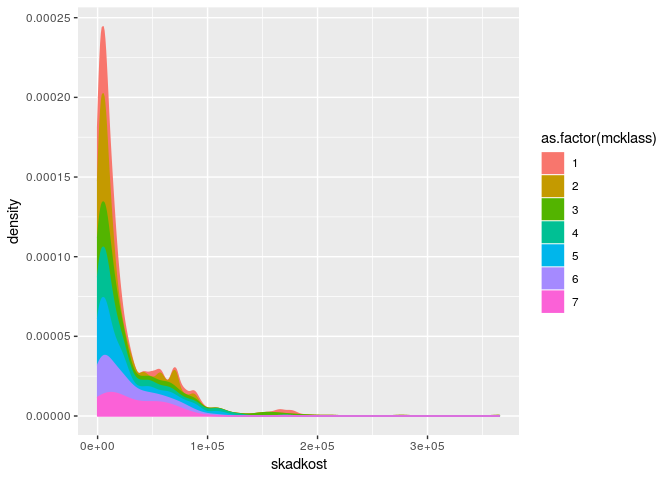
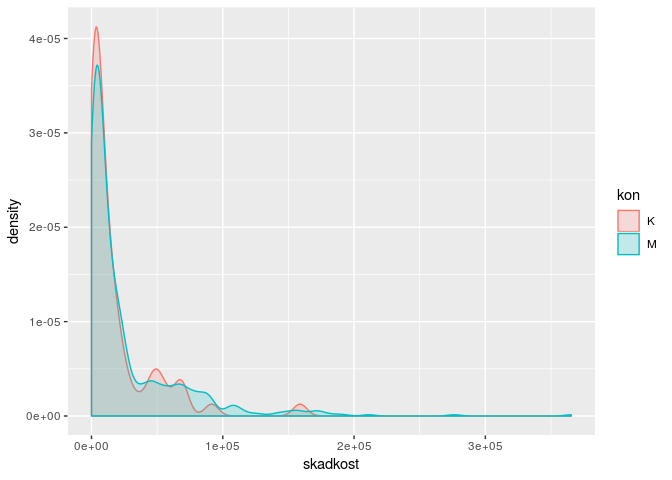
Added bibliograhy in bibtex format and new kernel desity plot

diff --git a/analysis.md b/analysis.md
@@ -9,6 +9,8 @@ library(insuranceData)
 data(dataOhlsson)
 ```
 
+## The data set
+
 The data comes from the former Swedish insurance company Wasa, and
 concerns partial casco insurance, for motorcycles. It contains
 aggregated data on all insurance policies and claims during
@@ -56,19 +58,48 @@ dataOhlsson <- dataOhlsson[dataOhlsson$skadkost>0, ]
 Subsetting the dataset to only include policies with positive claims,
 reduces the dataset from 64548 rows to only 670 rows.
 
+## Density estimates
+
+To estimate the density of the realized claims we use `ggplots` kernel
+density estimate. T uses the fnuction `density()` from the base packages
+`{stats}`. (Sheather and Jones 1991)
+
+``` r
+ggplot(dataOhlsson, aes(skadkost)) +
+  geom_density(alpha=0.2) + geom_rug(aes(x = skadkost, y = 0))
+```
+
+![](analysis_files/figure-gfm/unnamed-chunk-6-1.png)<!-- -->
+
 ``` r
 ggplot(dataOhlsson, aes(skadkost, color=kon, fill=kon)) +
   geom_density(alpha=0.2)
 ```
 
-![](analysis_files/figure-gfm/unnamed-chunk-6-1.png)<!-- --> Comparing
+![](analysis_files/figure-gfm/unnamed-chunk-7-1.png)<!-- --> Comparing
 the distribution of the realized claims, woman have more small claims
 than men and the male claims has heavier
 tails.
 
 ``` r
 ggplot(dataOhlsson, aes(skadkost, color=as.factor(mcklass), fill=as.factor(mcklass))) +
-  geom_density(position='stack')
+  geom_density(alpha=0.1)
 ```
 
-![](analysis_files/figure-gfm/unnamed-chunk-7-1.png)<!-- -->
+![](analysis_files/figure-gfm/unnamed-chunk-8-1.png)<!-- --> Inspecting
+the density estimates
+
+## References
+
+<div id="refs" class="references">
+
+<div id="ref-sheather_and_jones_1991">
+
+Sheather, Simon J, and Michael C Jones. 1991. “A Reliable Data-Based
+Bandwidth Selection Method for Kernel Density Estimation.” *Journal of
+the Royal Statistical Society. Series B (Methodological)*. JSTOR,
+683–90.
+
+</div>
+
+</div>
